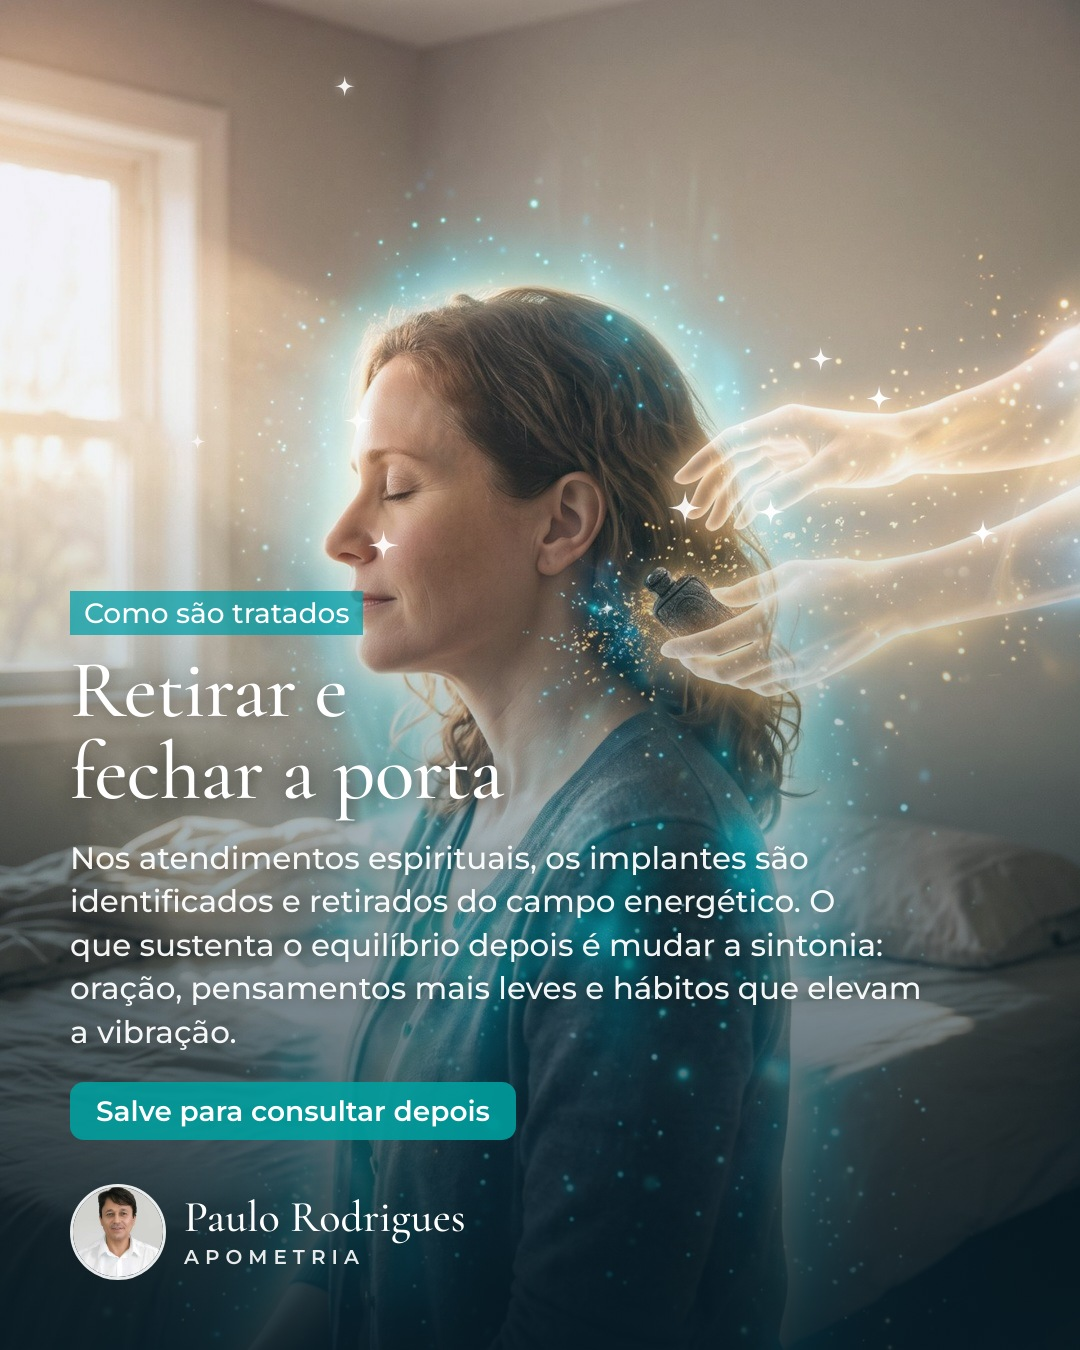
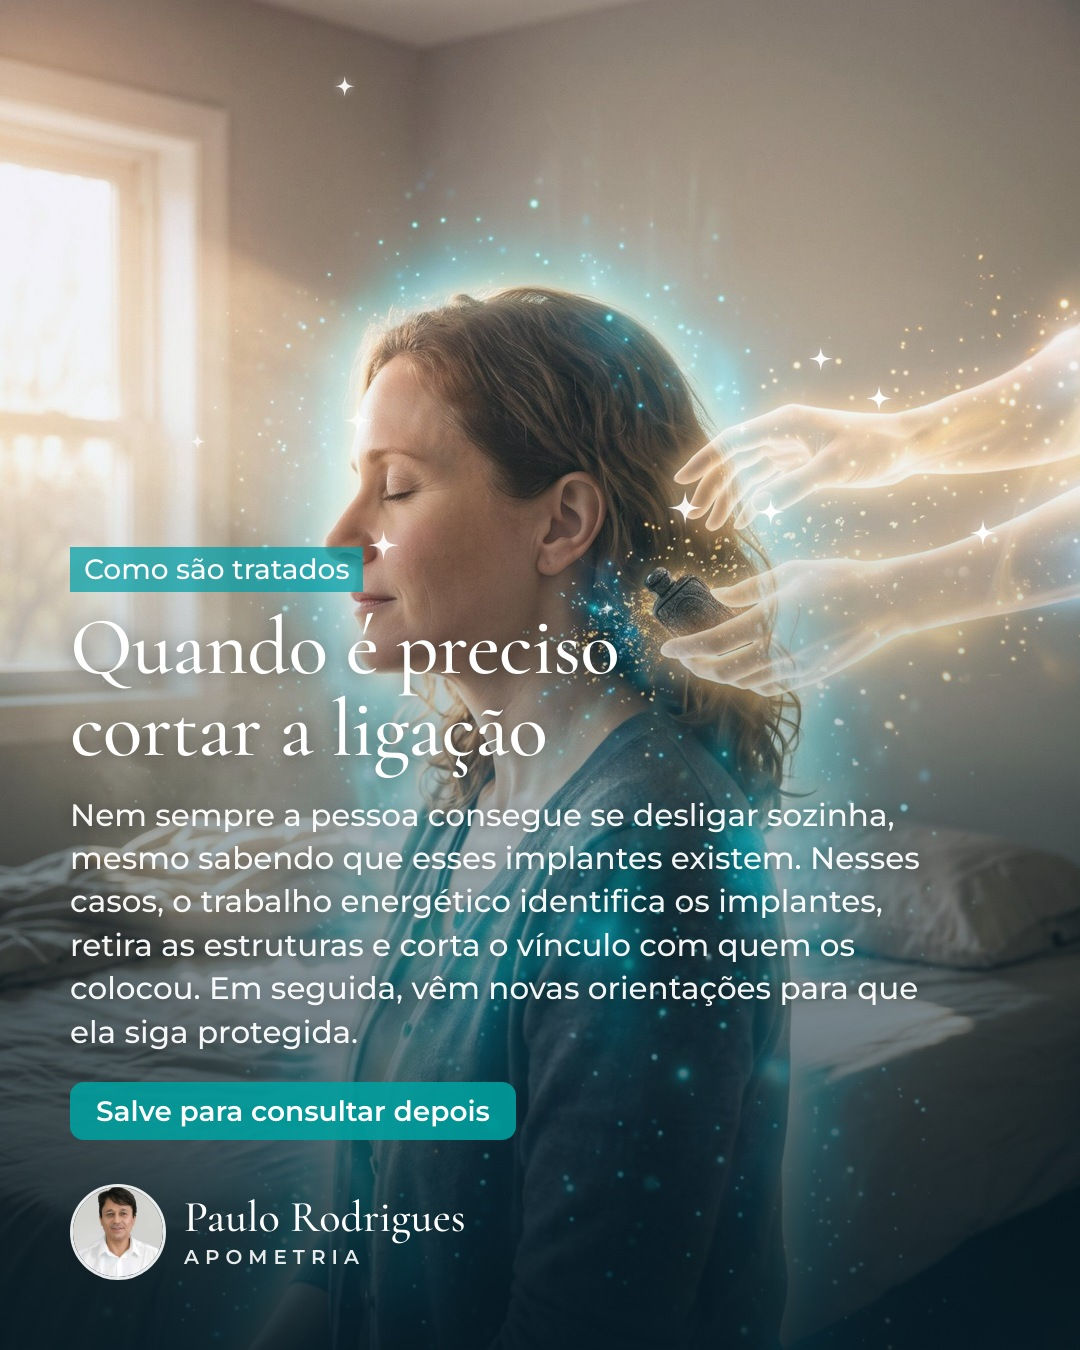
Implantes astrais: lâmina 6 com foco no corte da ligação e novas orientações
Claude-Session: https://claude.ai/code/session_01JEWNugGqZtfRNNpR6FEnd2

Changed region(s): [[0.0611, 0.4044, 0.8556, 0.7778]]

diff --git a/marcas/apometria-brasil/aprendizados.md b/marcas/apometria-brasil/aprendizados.md
@@ -51,3 +51,4 @@ Os agentes leem este arquivo antes de criar.
 - 25/11/2026 · Comentários de depoimento: escritos pelo Paulo em PRIMEIRA PESSOA, linguagem natural ("Fiquei muito feliz ao ler…", "Muita gente me pergunta"). Story do comentário com fundo BRANCO (textos em verde-petróleo); o story do print também fica claro (26/11).
 - 26/11/2026 · No fundo claro, o texto explicativo dos depoimentos vai em verde-petróleo bem escuro (#082426), sem transparência, para ler melhor.
 - 26/11/2026 · Implantes astrais: fotos de banco não representavam o tema. Refeito com imagens e vídeo do Gemini mostrando os implantes NA pessoa e as entidades influenciando sem serem vistas (comandos em `producoes/2026-11-24-apometria-implantes-astrais/prompts-gemini-v2.md`). Para temas espirituais abstratos, preferir imagens geradas fiéis ao texto.
+- 26/11/2026 · Fechamento de temas como implantes/obsessão: não encerrar com "práticas saudáveis/hábitos". Foco: às vezes a pessoa não consegue se desligar sozinha, mesmo sabendo do problema; o trabalho energético faz o corte e ela segue protegida com novas orientações.
